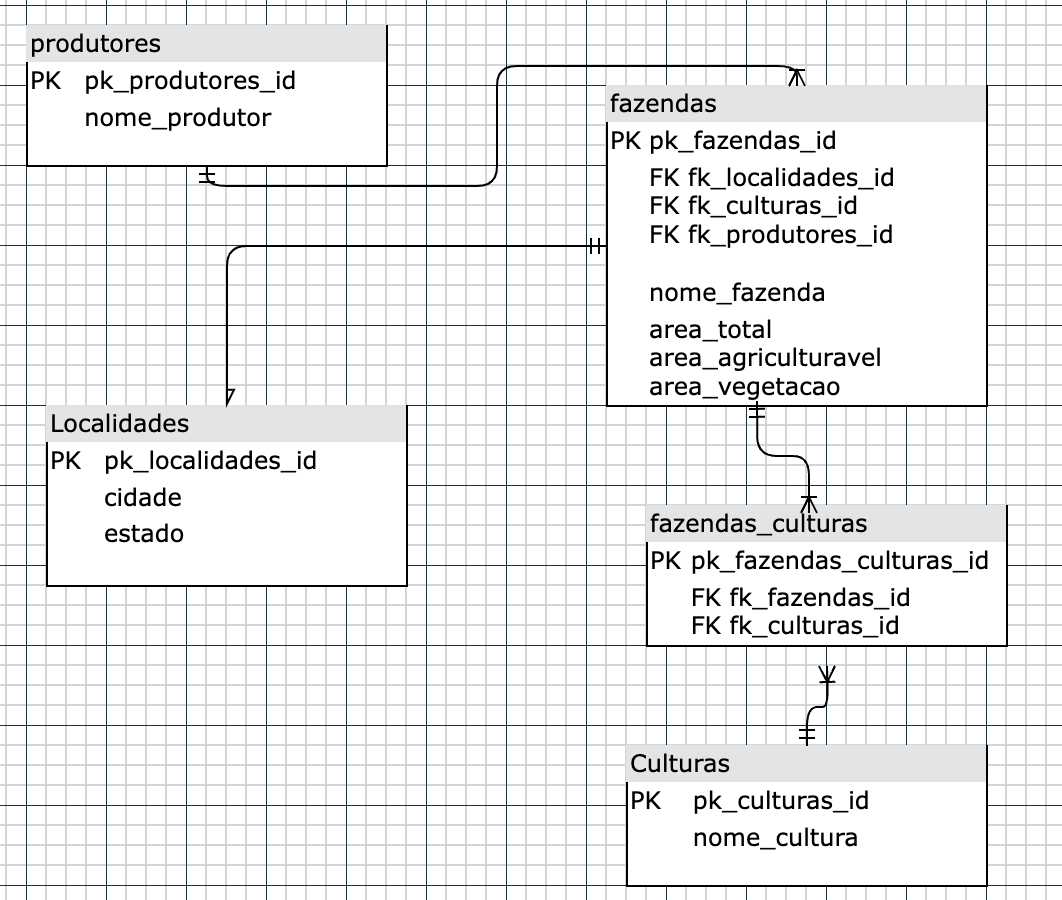
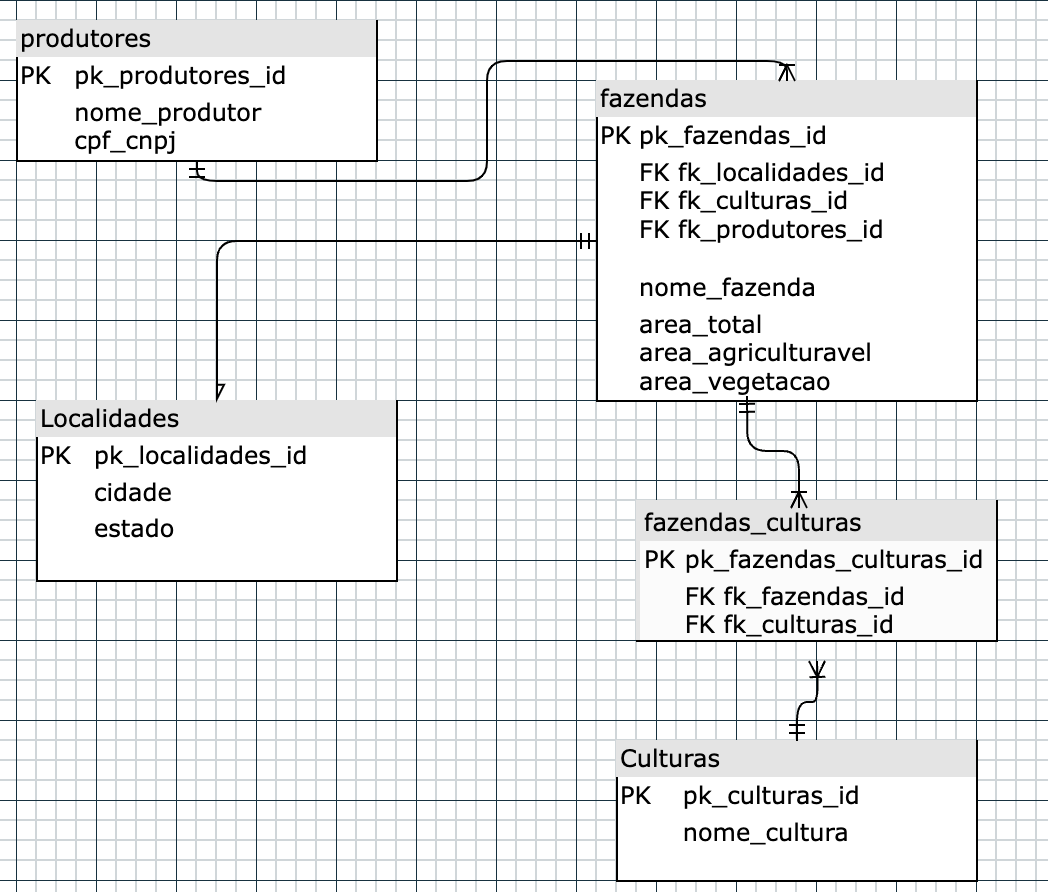
chore: modelagem do banco de dados relacional: adição do cpf_cnpj

Changed region(s): [[0.0, 0.0, 1.0, 1.0]]

diff --git a/src/domain/entities/Produtor.ts b/src/domain/entities/Produtor.ts
@@ -1,0 +1,6 @@
+class Produtor {
+  nomeProdutor!: string
+  cpfCnpj!:string
+}
+
+export { Produtor }
